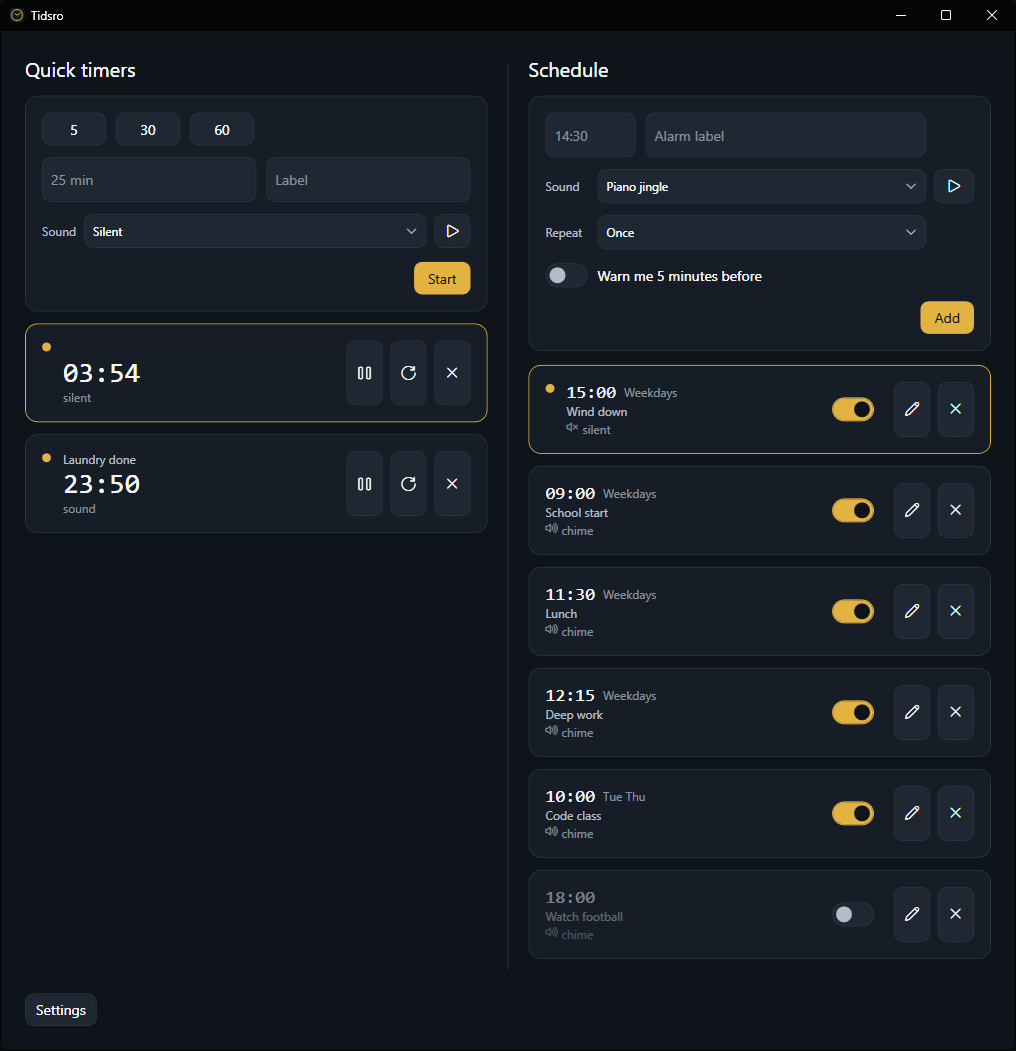
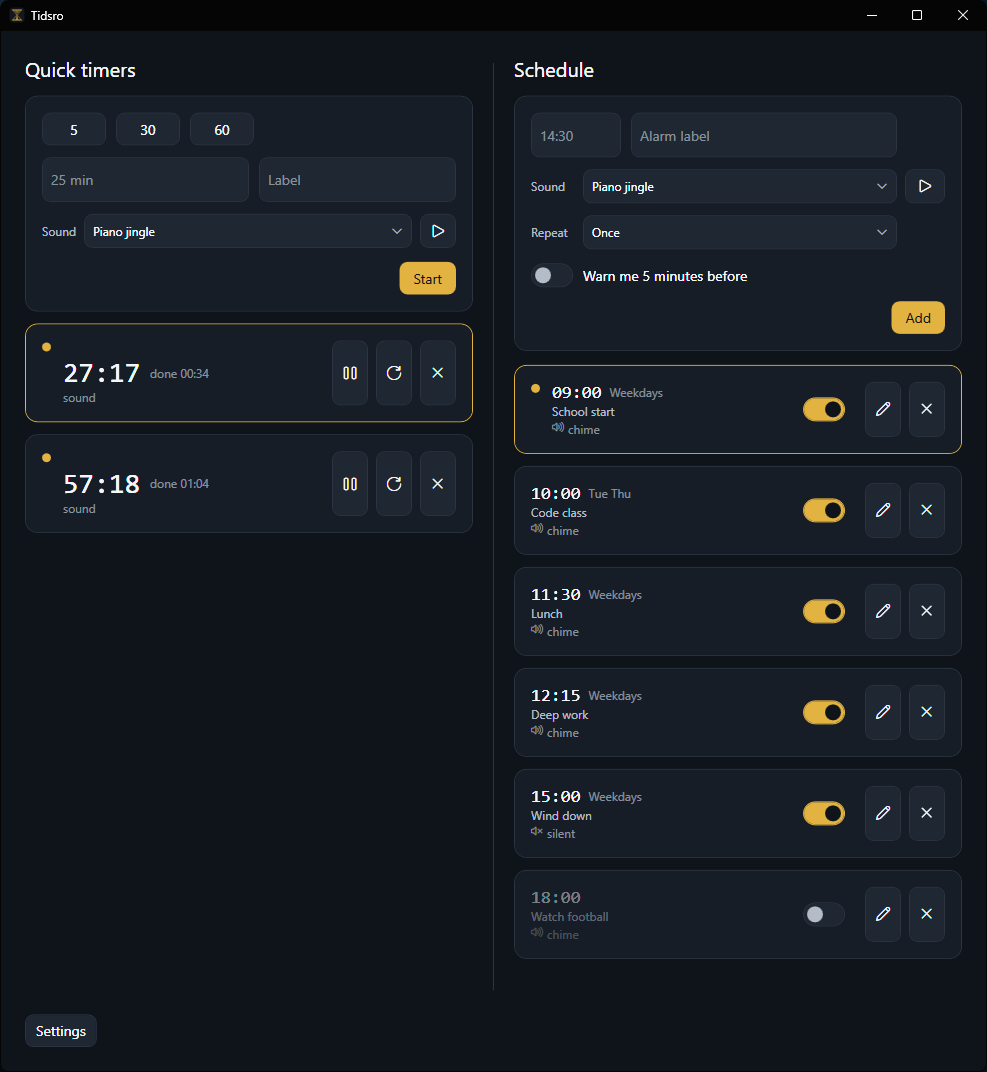
release: v1.6.0

diff --git a/CHANGELOG.md b/CHANGELOG.md
@@ -2,6 +2,11 @@
 
 All notable changes to Tidsro are documented here. Dates are ISO 8601.
 
+## [1.6.0] — 2026-07-13
+
+### Changed
+- **New brand identity** — a custom pine-in-hourglass mark, drawn from the name *tid* + *ro* (*calm time*), replaces the generic clock icon and now appears in the window title bar, taskbar, system tray, and the Windows installer.
+
 ## [1.5.0] — 2026-07-07
 
 ### Added
@@ -45,6 +50,7 @@ Clock-time alarms — a "Your day" agenda with one-shot fire-at-HH:MM alarms, op
 ## [1.0.0] — 2026-06-16
 First release — countdown timers with presets or custom durations, pause/resume, reset, and per-timer sounds.
 
+[1.6.0]: https://github.com/malinfossum/tidsro/releases/tag/v1.6.0
 [1.5.0]: https://github.com/malinfossum/tidsro/releases/tag/v1.5.0
 [1.4.0]: https://github.com/malinfossum/tidsro/releases/tag/v1.4.0
 [1.3.2]: https://github.com/malinfossum/tidsro/releases/tag/v1.3.2

diff --git a/README.md b/README.md
@@ -9,7 +9,7 @@ A calm, dark-mode-first desktop timer for Windows — countdown timers and clock
 > **Tidsro** is Norwegian: *tid* (time) + *ro* (calm / peace) — roughly *"calm time."* The name is the whole idea: a timer that's visible when you need it and invisible when you don't.
 
 <p align="center">
-  <img src="docs/screenshots/main-window.png" alt="Tidsro main window: two Quick timers counting down on the left, and a Schedule of weekday alarms on the right — each row has an on/off toggle, with one alarm switched off and dimmed at the bottom — in a dark theme with gold accents." width="720">
+  <img src="docs/screenshots/main-window.png" alt="Tidsro main window: two Quick timers counting down on the left — each showing its remaining time alongside the wall-clock time it will finish (e.g. done 00:34) — and a Schedule of weekday alarms on the right, each row with an on/off toggle and one alarm switched off and dimmed at the bottom, in a dark theme with gold accents." width="720">
 </p>
 
 ## Who it's for
@@ -20,7 +20,7 @@ Anyone who works or studies at a computer and wants to hold their focus through 
 
 ## Status
 
-**v1.5.0 is released** — see the [Releases page](https://github.com/malinfossum/tidsro/releases). Tidsro does **countdown timers** (presets or custom, with pause/resume, reset, an optional label, and a per-timer sound) and a **Schedule** of **clock-time and recurring alarms** — fire once at an HH:MM time, or repeat on a weekday set (Daily, Weekdays, Weekends, or custom days). Each alarm takes an optional label, a per-alarm sound, and an optional **5-minute pre-alarm warning**; the Schedule is sorted by next occurrence, alarms can be **switched off without deleting** (kept and parked at the bottom until switched back on), edited in a dialog, and deleted with an undo window, and firing survives sleep and app-relaunch within a 5-minute grace. Settings (launch-at-startup, default sound) apply on **Save**.
+**v1.6.0 is released** — see the [Releases page](https://github.com/malinfossum/tidsro/releases). Tidsro does **countdown timers** (presets or custom, with pause/resume, reset, an optional label, and a per-timer sound) and a **Schedule** of **clock-time and recurring alarms** — fire once at an HH:MM time, or repeat on a weekday set (Daily, Weekdays, Weekends, or custom days). Each alarm takes an optional label, a per-alarm sound, and an optional **5-minute pre-alarm warning**; the Schedule is sorted by next occurrence, alarms can be **switched off without deleting** (kept and parked at the bottom until switched back on), edited in a dialog, and deleted with an undo window, and firing survives sleep and app-relaunch within a 5-minute grace. Settings (launch-at-startup, default sound) apply on **Save**.
 
 See the [changelog](CHANGELOG.md) for what's new in each release.
 